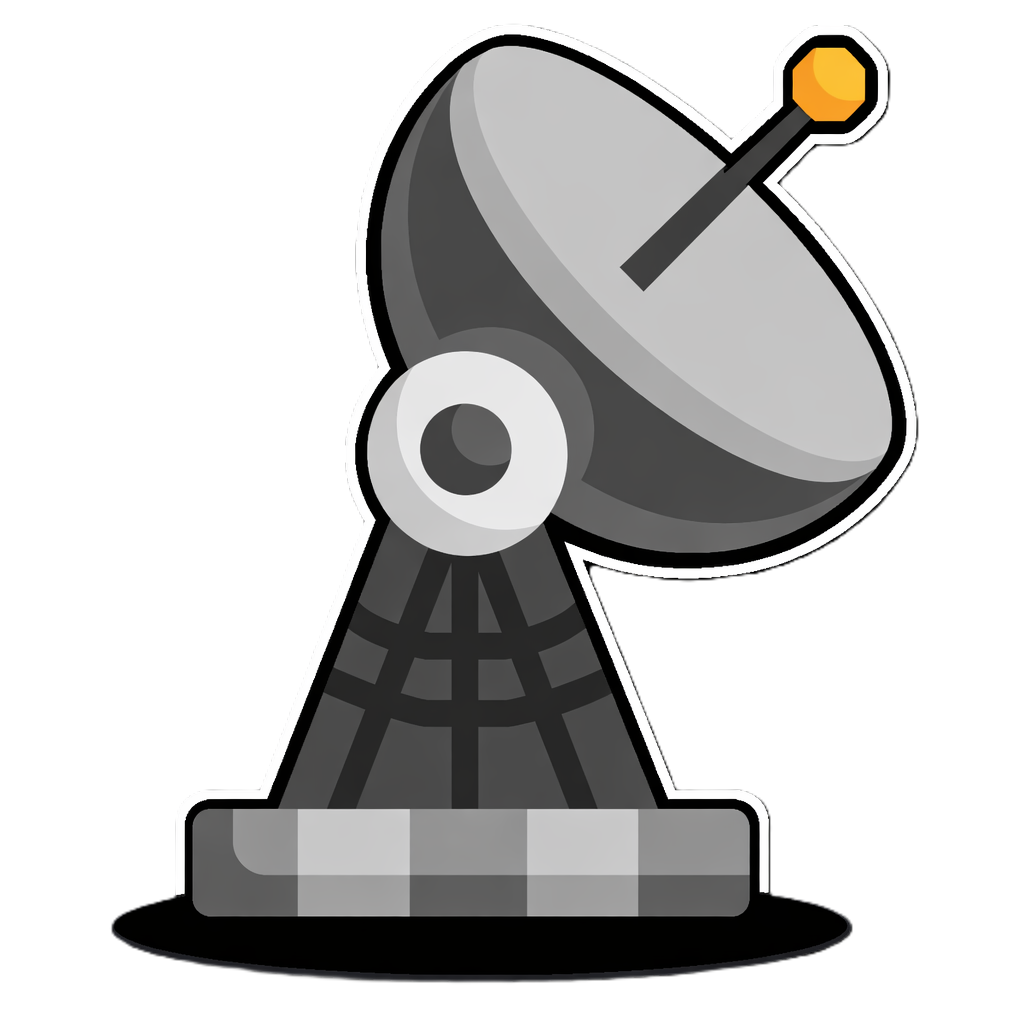
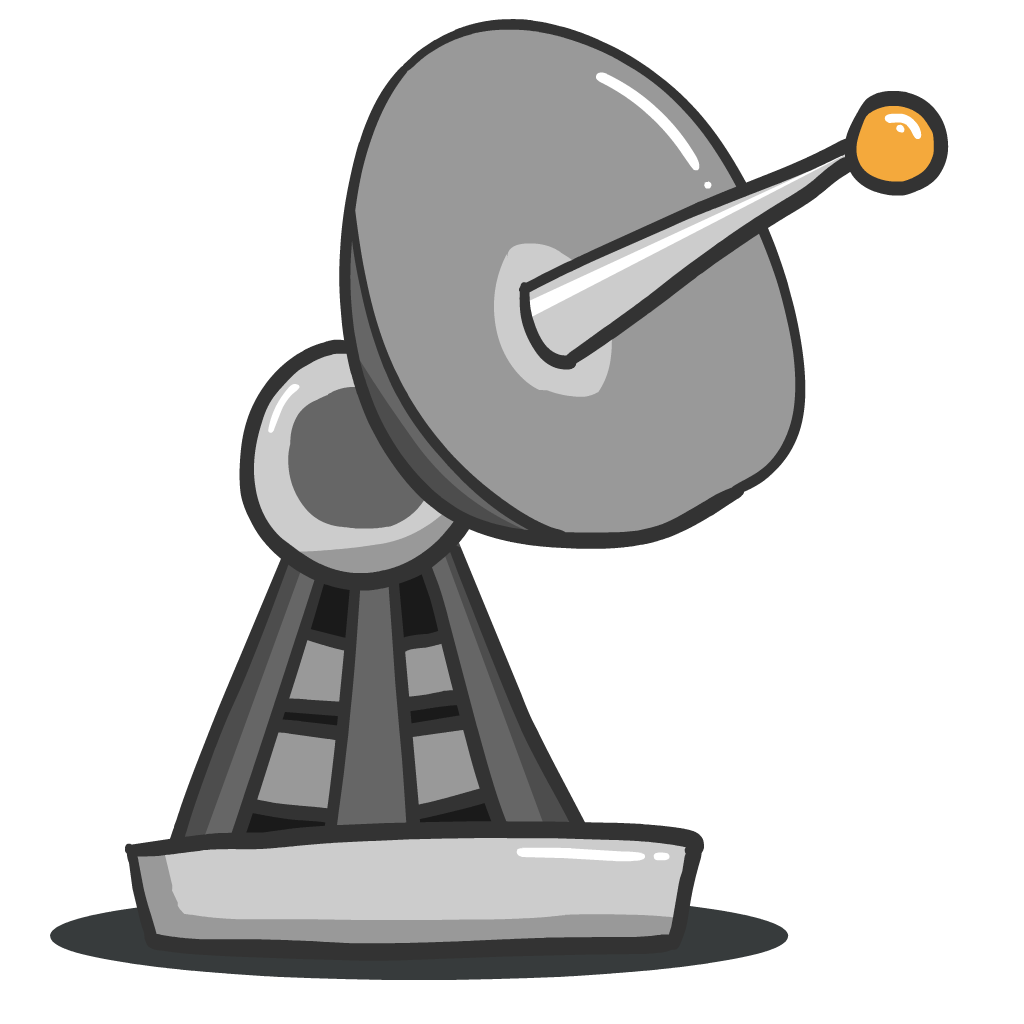
Add new assets for Deadlock and Sentinel

diff --git a/Assets/DivaniAssets.cs b/Assets/DivaniAssets.cs
@@ -18,10 +18,10 @@ public static class DivaniAssets
     public static LoadableAsset<Sprite> FragVentButton { get; } = new LoadableResourceAsset($"{ShortPath}.FragVentButton.png");
     public static LoadableAsset<Sprite> FragGiveButton { get; } = new LoadableResourceAsset($"{ShortPath}.FragGive.png");
     public static LoadableAsset<Sprite> FragPassButton { get; } = new LoadableResourceAsset($"{ShortPath}.FragPass.png");
-    public static LoadableAsset<Sprite> DeadlockLockdownButton { get; } = new LoadableResourceAsset($"{IconPath}.Deadlock.png", 300f);
+    public static LoadableAsset<Sprite> DeadlockLockdownButton { get; } = new LoadableResourceAsset($"{ShortPath}.DeadlockLockdown.png");
     public static LoadableAsset<Sprite> DemolitionistPlantButton { get; } = new LoadableResourceAsset($"{ShortPath}.DemolitionistPlant.png");
     public static LoadableAsset<Sprite> DemolitionistDefuseButton { get; } = new LoadableResourceAsset($"{ShortPath}.DemolitionistDefuse.png");
-    public static LoadableAsset<Sprite> SentinelPlaceBeaconButton { get; } = new LoadableResourceAsset($"{IconPath}.Sentinel.png", 250f);
+    public static LoadableAsset<Sprite> SentinelPlaceBeaconButton { get; } = new LoadableResourceAsset($"{ShortPath}.BeaconPlace.png");
     public static LoadableAsset<Sprite> DomesmithPlaceDomeButton { get; } = new LoadableResourceAsset($"{ShortPath}.DomesmithPlaceDome.png");
     public static LoadableAsset<Sprite> PlagueDoctorInfectButton { get; } = new LoadableResourceAsset($"{ShortPath}.PlagueDoctorInfect.png");
     public static LoadableAsset<Sprite> SproutCollectButton { get; } = new LoadableResourceAsset($"{ShortPath}.Collect.png", 100);

diff --git a/Buttons/Crewmate/CrewmateInvestigative/PlaceBeaconButton.cs b/Buttons/Crewmate/CrewmateInvestigative/PlaceBeaconButton.cs
@@ -110,7 +110,7 @@ public class PlaceBeaconButton : TownOfUsButton
             $"<b><color=#{colorHex}>Placing beacon...</color></b>",
             Color.white,
             new Vector3(0f, 1f, -20f),
-            spr: DivaniAssets.SentinelPlaceBeaconButton.LoadAsset());
+            spr: DivaniAssets.SentinelIcon.LoadAsset());
         
         yield return new WaitForSeconds(EffectDuration);
         
@@ -132,7 +132,7 @@ public class PlaceBeaconButton : TownOfUsButton
             message,
             Color.white,
             new Vector3(0f, 1f, -20f),
-            spr: DivaniAssets.SentinelPlaceBeaconButton.LoadAsset());
+            spr: DivaniAssets.SentinelIcon.LoadAsset());
 
         
         _isPlacing = false;